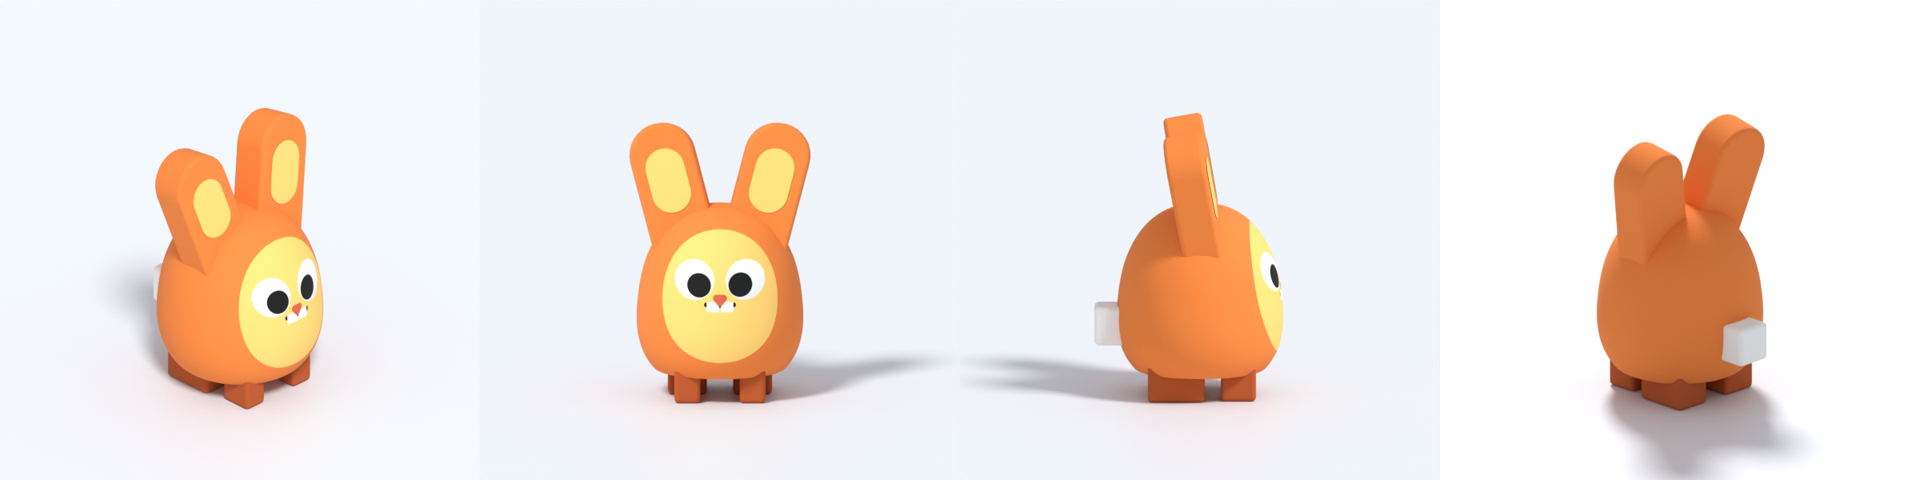
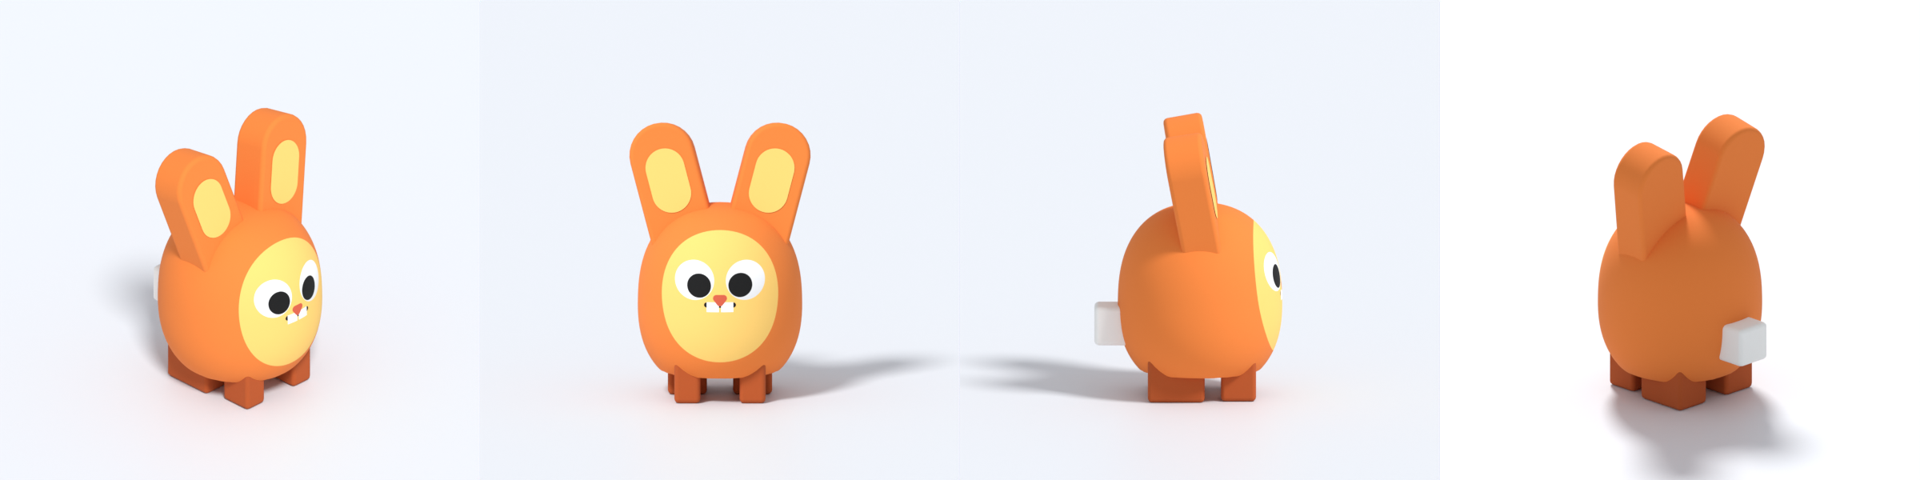
Egg bunny: widest point raised about a voxel, to y 7.0
Claude-Session: https://claude.ai/code/session_01RRjPcssmw86k8yzoijijLA

diff --git a/tools/blender/build_bunny.py b/tools/blender/build_bunny.py
@@ -549,11 +549,11 @@ elif VARIANT == "cube":
 
 elif VARIANT == "egg":
     # An upright egg with a smooth surface (not voxels): a dense sphere reshaped to the profile
-    # r(t) = 6.3 (1 - |t|^2.4)^(1/2.4) (1 - 0.12 t): fat, widest a little below the middle, a blunt top, cut flat at y = 2 to sit on.
+    # r(t) = 6.3 (1 - |t|^2.4)^(1/2.4) (1 - 0.03 t): widest just below the middle (y 7.1), a blunt top, cut flat at y = 2 to sit on.
     # 12.8 tall above the seat. The face colour is a smooth oval on the front; the face decal is pressed onto
     # it, eye line at 1/phi of the body's height. Hind feet phi times the front paws' length, in line with
     # them seen from the front, tops hidden in the body; upright ears with round tips in the crown; a tail.
-    EGG_YC, EGG_A, EGG_B, EGG_K, EGG_P, SEAT = 7.6, 7.2, 6.3, 0.12, 2.4, 2
+    EGG_YC, EGG_A, EGG_B, EGG_K, EGG_P, SEAT = 7.6, 7.2, 6.3, 0.03, 2.4, 2
     bm = bmesh.new()
     bmesh.ops.create_uvsphere(bm, u_segments=96, v_segments=64, radius=1)
     # The sphere's pole points forward (tilted 10 deg up), so its rings circle the face: the face patch is
